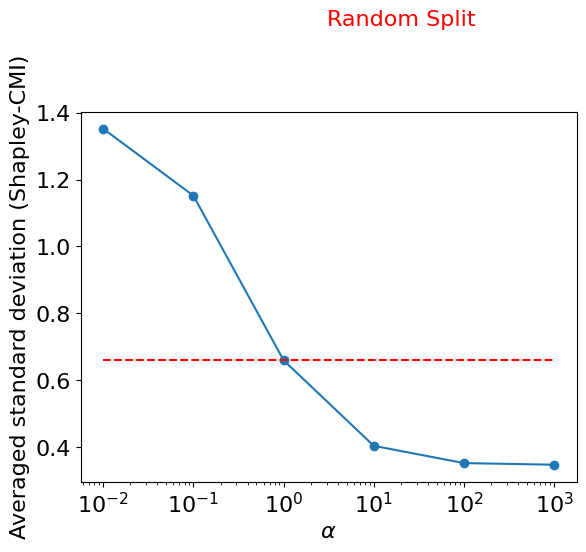
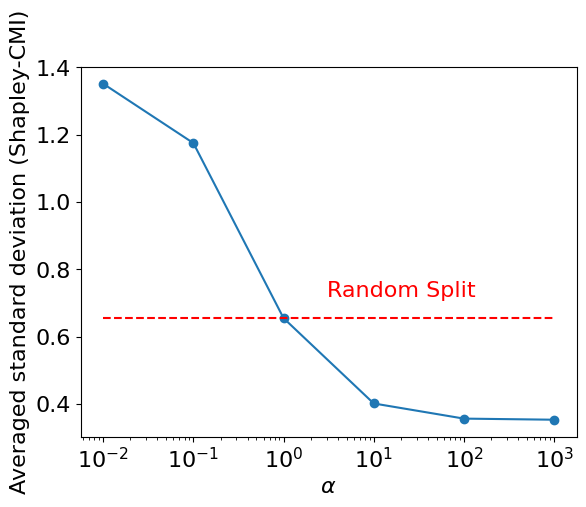
Update shapley-CMI plotting. Update usage guide of DistSplitNN.py

diff --git a/src/algorithm/DistSplitNN.py b/src/algorithm/DistSplitNN.py
@@ -207,3 +207,15 @@ if __name__ == '__main__':
 
     for p in processes:
         p.join()
+
+
+"""
+Consider a two-party application on covtype dataset.
+On one party:
+torchrun --nproc_per_node=2 --nnodes=2 --node_rank=0 --master_addr=127.0.0.1 --master_port=12345 src/algorithm/DistSplitNN.py -d covtype -c 7 -m acc -p 2 -sp corr -b 0.0 -s 0 -g 0
+
+On another party:   (change only the node_rank)
+torchrun --nproc_per_node=2 --nnodes=2 --node_rank=1 --master_addr=127.0.0.1 --master_port=12345 src/algorithm/DistSplitNN.py -d covtype -c 7 -m acc -p 2 -sp corr -b 0.0 -s 0 -g 0
+
+Note that only the parameters on the primary party will be used. The parameters on the other parties are ignored.
+"""

diff --git a/src/analysis/alpha_importance.py b/src/analysis/alpha_importance.py
@@ -42,7 +42,7 @@ def plot_alpha_vs_std(feature_importance, metric="Shapley"):
 
     # plot uniform distribution in -- and annotate in the left middle above the line
     ax.plot([0.01, 1000], [uniform_std, uniform_std], linestyle='--', color='red')
-    ax.annotate("Random Split", xy=(0.1, uniform_std), xytext=(3, uniform_std + 1), color='red')
+    ax.annotate("Random Split", xy=(0.1, uniform_std), xytext=(3, uniform_std * 1.1), color='red')
 
     # ax.set_title("Averaged standard deviation of party importance under different $\\alpha$ of Dirichlet split")
     fig.savefig(f"fig/alpha_vs_std_{metric}.png", bbox_inches='tight')

diff --git a/src/analysis/shapley_cmi.py b/src/analysis/shapley_cmi.py
@@ -110,5 +110,5 @@ feature_importance = [0.08420452 0.10850604 0.10432603 0.0842274  0.11213454 0.1
     feature_importance = np.array(feature_importance)
 
     # plot alpha vs mean importance
-    plot_alpha_vs_mean_imp(feature_importance, metric="Shapley-CMI")
+    # plot_alpha_vs_mean_imp(feature_importance, metric="Shapley-CMI")
     plot_alpha_vs_std(feature_importance, metric="Shapley-CMI")
